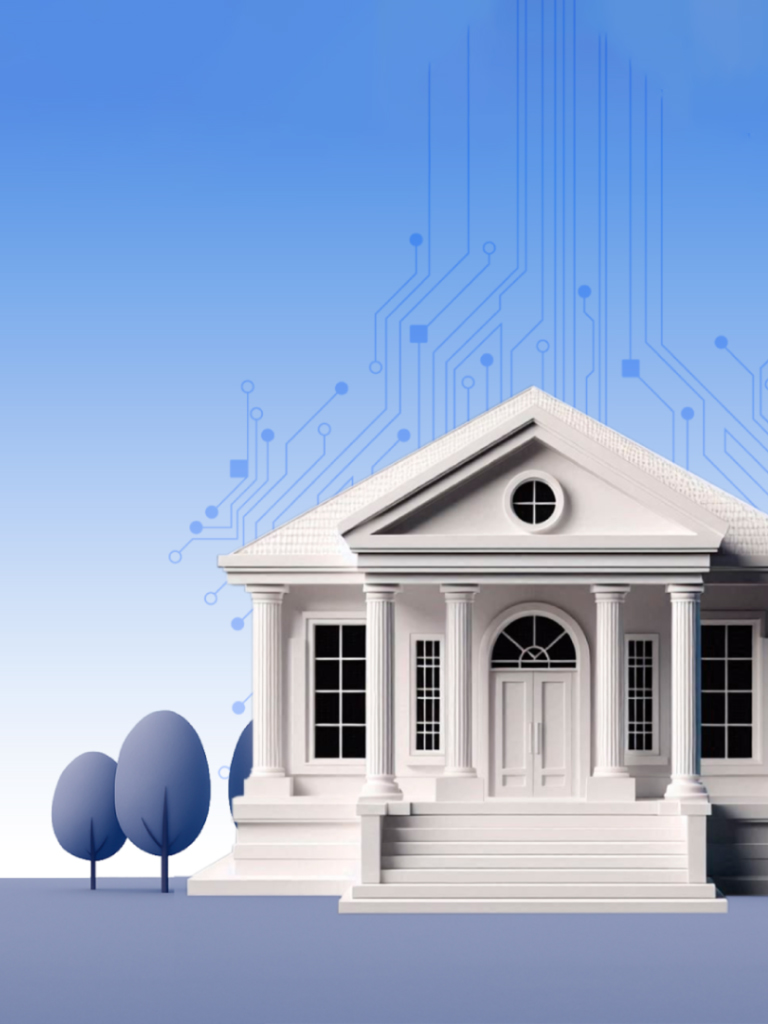
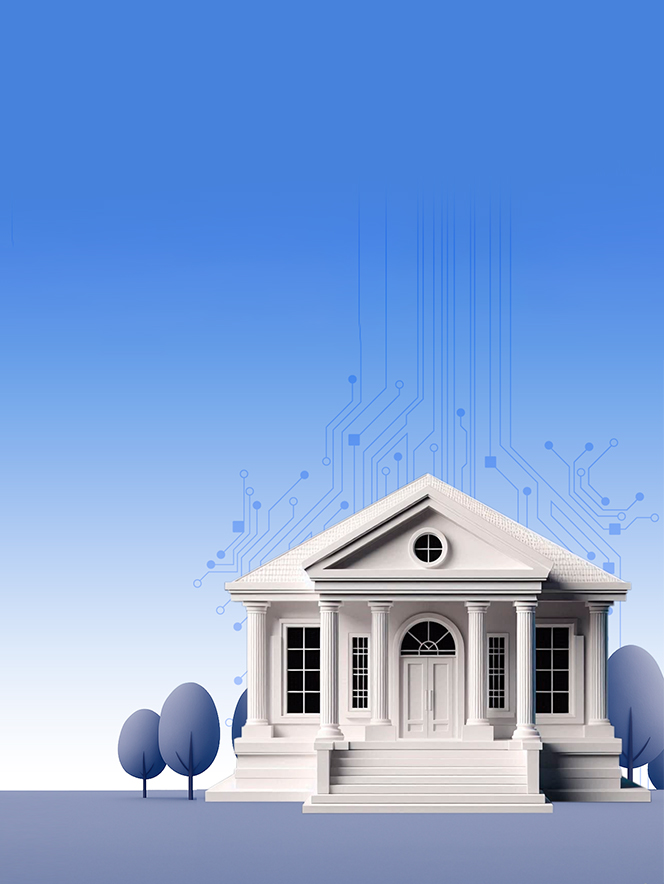
style(BannerCarousel.jsx): Melhoria da versão mobile do carrossel.

diff --git a/src/pages/Home/Team.jsx b/src/pages/Home/Team.jsx
@@ -12,7 +12,7 @@ import member5 from '../../assets/team/brendo.jpg';
 import member6 from '../../assets/team/joelle.jpg';
 import member7 from '../../assets/team/rafael.jpg';
 import member8 from '../../assets/team/layna.jpg';
-import member9 from '../../assets/team/leticia-d.jpg';
+import member9 from '../../assets/team/leticia-d.jpeg';
 import member10 from '../../assets/team/leticia-h.jpg';
 
 
@@ -88,16 +88,16 @@ function Team() {
             role: 'Social Media',
             socialLinks: {
                 linkedin: 'https://www.linkedin.com/in/layna-dias-13b348362/',
-                github: 'https://github.com',
+                github: 'https://github.com/laynaDias',
             },
         },
         {
             photo: member9,
-            name: 'Leticia Dias',
+            name: 'Letícia Dias',
             role: 'Social Media',
             socialLinks: {
-                linkedin: 'https://linkedin.com',
-                github: 'https://github.com',
+                linkedin: 'https://www.linkedin.com/in/leticia-dias-84ba40358/',
+                github: 'https://github.com/leticiadias2608',
             },
         },
         {

diff --git a/src/pages/Home/BannerCarousel.css b/src/pages/Home/BannerCarousel.css
@@ -60,6 +60,8 @@
   .text-container {
     margin-left: 5%;
     max-width: 90%;
+    padding-top: 5rem;
+
   }
 
   .text-container h2 {
@@ -75,10 +77,27 @@
     padding: 0.6rem 1.2rem;
     font-size: 0.85rem;
   }
+
+  .slide-content {
+    border-radius: 1rem;
+    overflow: hidden;
+    margin: 0.5rem 0;
+    display: flex;
+    align-items: flex-start;
+    
+  }
+  
+  .banner-swiper {
+    padding: 1rem 0;
+    padding-left: 0.5rem;
+    padding-right: 0.5rem;
+    
+  }
 }
 
 /* Isso é pra celular bem bem pequeno */
 
+/*
 @media (max-width: 480px) {
   .text-container {
     margin-left: 5%;
@@ -99,3 +118,5 @@
     font-size: 0.8rem;
   }
 }
+
+*/

diff --git a/src/pages/Home/BannerCarousel.jsx b/src/pages/Home/BannerCarousel.jsx
@@ -53,6 +53,12 @@ function BannerCarousel() {
         pagination={{ clickable: true }}
         autoplay={{ delay: 8000, disableOnInteraction: false }}
         loop={true}
+        centeredSlides={false}
+        slidesPerView={isMobile ? 1.1 : 1}
+        spaceBetween={isMobile ? 16 : 0}
+        initialSlide={0}
+
+
         className="banner-swiper"
       >
         {banners.map((banner, index) => (

diff --git a/src/components/Footer.css b/src/components/Footer.css
@@ -29,6 +29,8 @@ footer img {
 .social-icons-footer img {
   height: 2rem;
   transition: filter 0.3s ease;
+  margin-left: 0.2rem;
+
 }
 
 .social-icons-footer img:hover {

diff --git a/src/style/index.css b/src/style/index.css
@@ -23,7 +23,7 @@
 }
 
 
-/*
+
 div {
   border-style: dotted;
   border-width: thin;
@@ -32,7 +32,7 @@ div {
   border-color: #cacaca;
 }
 
-*/
+
 
 body {
   margin: 0;
